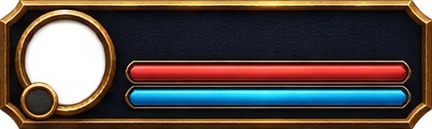
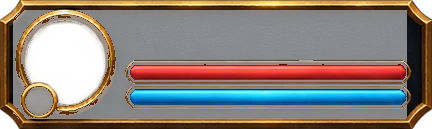
Cadres d unité : fond sombre semi-transparent (50 %), on voit le jeu à travers ; bordure, portraits, barres et textes opaques ; test

diff --git a/index.html b/index.html
@@ -94,11 +94,11 @@ body.mobile-mode .selectorTitle{font-size:9px;margin:5px 0 4px}
 @media(max-width:700px) and (orientation:portrait){body.mobile-mode #mobileOrientation{display:flex}body.mobile-mode #mobileControls{visibility:hidden}}
 @media(max-width:820px){.races{grid-template-columns:repeat(3,1fr)}.pickerLayout{grid-template-columns:1fr}.previewPane{position:relative;top:auto}.previewPane .pvArt{height:260px}#app{grid-template-rows:52px 1fr 110px}#bottom{grid-template-columns:1fr;grid-template-rows:auto auto;padding:6px}.sideBottom{display:none}#skills{gap:4px}.skill{width:64px;height:64px;font-size:7px}.skill .icon{width:34px;height:34px}.classes{grid-template-columns:1fr 1fr}#selfFrame,#targetFrame,#arenaFrames{width:180px;font-size:10px}#arenaFrames{top:105px}#help{display:none}}
 </style>
-<link rel="stylesheet" href="src/ui/theme.css?v=202611060320">
-<link rel="stylesheet" href="src/ui/lobby.css?v=202611060320">
-<link rel="stylesheet" href="src/ui/lobby_buttons.css?v=202611060320">
-<link rel="stylesheet" href="src/ui/hud.css?v=202611060320">
-<link rel="stylesheet" href="src/ui/results.css?v=202611060320">
+<link rel="stylesheet" href="src/ui/theme.css?v=202611060325">
+<link rel="stylesheet" href="src/ui/lobby.css?v=202611060325">
+<link rel="stylesheet" href="src/ui/lobby_buttons.css?v=202611060325">
+<link rel="stylesheet" href="src/ui/hud.css?v=202611060325">
+<link rel="stylesheet" href="src/ui/results.css?v=202611060325">
 </head>
 <body>
 <div id="app">
@@ -144,76 +144,76 @@ body.mobile-mode .selectorTitle{font-size:9px;margin:5px 0 4px}
 </main>
 <footer id="bottom"><div id="status" class="sideBottom"></div><div id="center"><div id="round">Round 1 / 3</div><div id="timer">02:30</div><div id="score">0 - 0</div></div><div id="skills"></div></footer>
 </div>
-<script src="game_logic.js?v=202611060320"></script>
-<script src="src/core/diag.js?v=202611060320"></script>
+<script src="game_logic.js?v=202611060325"></script>
+<script src="src/core/diag.js?v=202611060325"></script>
 <!-- High-fidelity character renderer. The game remains playable with the built-in fallback if these fail to load. -->
 <script src="https://cdn.jsdelivr.net/npm/three@0.128.0/build/three.min.js" crossorigin="anonymous"></script>
 <script src="https://cdn.jsdelivr.net/npm/three@0.128.0/examples/js/loaders/GLTFLoader.js" crossorigin="anonymous"></script>
 <!-- Personnages CC0 assemblés (assets emballés en .js dans assets/characters/ : fonctionne en double-clic). -->
-<script>window.ASSET_V="202611060320"</script>
-<script src="src/characters/kits.js?v=202611060320"></script>
-<script src="src/characters/rig.js?v=202611060320"></script>
-<script src="src/characters/glow.js?v=202611060320"></script>
-<script src="src/characters/weapons.js?v=202611060320"></script>
-<script src="src/characters/cloth.js?v=202611060320"></script>
-<script src="src/characters/armor.js?v=202611060320"></script>
-<script src="src/characters/shoulders.js?v=202611060320"></script>
-<script src="src/characters/head.js?v=202611060320"></script>
-<script src="src/characters/builder.js?v=202611060320"></script>
-<script src="src/render/env_post.js?v=202611060320"></script>
-<script src="src/render/environment.js?v=202611060320"></script>
-<script src="src/render/ground_paint.js?v=202611060320"></script>
-<script src="src/render/env_ambient.js?v=202611060320"></script>
-<script src="src/render/start_rooms.js?v=202611060320"></script>
-<script src="src/render/map_castle_horizon.js?v=202611060320"></script>
-<script src="src/render/map_castle.js?v=202611060320"></script>
-<script src="src/render/map_bridge.js?v=202611060320"></script>
-<script src="src/render/effects.js?v=202611060320"></script>
-<script src="src/render/shield_aura.js?v=202611060320"></script>
-<script src="assets/ui/map_thumbs.js?v=202611060320"></script>
-<script src="src/core/perf.js?v=202611060320"></script>
-<script src="src/core/setup.js?v=202611060320"></script>
-<script src="src/render/heroes3d.js?v=202611060320"></script>
-<script src="src/render/preview3d.js?v=202611060320"></script>
-<script src="src/render/hero_anim.js?v=202611060320"></script>
-<script src="src/render/hero_decor.js?v=202611060320"></script>
-<script src="src/render/beasts.js?v=202611060320"></script>
-<script src="src/render/portraits.js?v=202611060320"></script>
-<script src="src/data/classes.js?v=202611060320"></script>
-<script src="src/ui/icons.js?v=202611060320"></script>
-<script src="src/game/forms.js?v=202611060320"></script>
-<script src="src/core/webgl.js?v=202611060320"></script>
-<script src="src/data/maps.js?v=202611060320"></script>
-<script src="src/game/combat.js?v=202611060320"></script>
-<script src="src/game/spells.js?v=202611060320"></script>
-<script src="src/game/ai.js?v=202611060320"></script>
-<script src="src/game/player.js?v=202611060320"></script>
-<script src="src/game/rules.js?v=202611060320"></script>
-<script src="src/ui/skillbar.js?v=202611060320"></script>
-<script src="src/game/match.js?v=202611060320"></script>
-<script src="src/game/sim.js?v=202611060320"></script>
-<script src="src/render/world.js?v=202611060320"></script>
-<script src="src/render/units_fallback.js?v=202611060320"></script>
-<script src="src/render/cc_marks.js?v=202611060320"></script>
-<script src="src/render/arena_fallback.js?v=202611060320"></script>
-<script src="src/render/fx_webgl.js?v=202611060320"></script>
-<script src="src/render/overlay.js?v=202611060320"></script>
-<script src="src/ui/hud.js?v=202611060320"></script>
-<script src="src/ui/results.js?v=202611060320"></script>
-<script src="src/audio/music.js?v=202611060320"></script>
-<script src="src/audio/tracks.js?v=202611060320"></script>
-<script src="assets/audio/sfx_pack.js?v=202611060320"></script>
-<script src="src/audio/sfx.js?v=202611060320"></script>
-<script src="src/audio/spell_sounds.js?v=202611060320"></script>
-<script src="src/ui/frame_layout.js?v=202611060320"></script>
-<script src="src/ui/settings.js?v=202611060320"></script>
-<script src="src/ui/lobby.js?v=202611060320"></script>
-<script src="src/ui/mobile.js?v=202611060320"></script>
-<script src="src/input/controls.js?v=202611060320"></script>
-<script src="src/ui/cursor.js?v=202611060320"></script>
-<script src="src/net/online.js?v=202611060320"></script>
-<script src="src/ui/party.js?v=202611060320"></script>
-<script src="src/core/loading.js?v=202611060320"></script>
-<script src="src/core/main.js?v=202611060320"></script>
+<script>window.ASSET_V="202611060325"</script>
+<script src="src/characters/kits.js?v=202611060325"></script>
+<script src="src/characters/rig.js?v=202611060325"></script>
+<script src="src/characters/glow.js?v=202611060325"></script>
+<script src="src/characters/weapons.js?v=202611060325"></script>
+<script src="src/characters/cloth.js?v=202611060325"></script>
+<script src="src/characters/armor.js?v=202611060325"></script>
+<script src="src/characters/shoulders.js?v=202611060325"></script>
+<script src="src/characters/head.js?v=202611060325"></script>
+<script src="src/characters/builder.js?v=202611060325"></script>
+<script src="src/render/env_post.js?v=202611060325"></script>
+<script src="src/render/environment.js?v=202611060325"></script>
+<script src="src/render/ground_paint.js?v=202611060325"></script>
+<script src="src/render/env_ambient.js?v=202611060325"></script>
+<script src="src/render/start_rooms.js?v=202611060325"></script>
+<script src="src/render/map_castle_horizon.js?v=202611060325"></script>
+<script src="src/render/map_castle.js?v=202611060325"></script>
+<script src="src/render/map_bridge.js?v=202611060325"></script>
+<script src="src/render/effects.js?v=202611060325"></script>
+<script src="src/render/shield_aura.js?v=202611060325"></script>
+<script src="assets/ui/map_thumbs.js?v=202611060325"></script>
+<script src="src/core/perf.js?v=202611060325"></script>
+<script src="src/core/setup.js?v=202611060325"></script>
+<script src="src/render/heroes3d.js?v=202611060325"></script>
+<script src="src/render/preview3d.js?v=202611060325"></script>
+<script src="src/render/hero_anim.js?v=202611060325"></script>
+<script src="src/render/hero_decor.js?v=202611060325"></script>
+<script src="src/render/beasts.js?v=202611060325"></script>
+<script src="src/render/portraits.js?v=202611060325"></script>
+<script src="src/data/classes.js?v=202611060325"></script>
+<script src="src/ui/icons.js?v=202611060325"></script>
+<script src="src/game/forms.js?v=202611060325"></script>
+<script src="src/core/webgl.js?v=202611060325"></script>
+<script src="src/data/maps.js?v=202611060325"></script>
+<script src="src/game/combat.js?v=202611060325"></script>
+<script src="src/game/spells.js?v=202611060325"></script>
+<script src="src/game/ai.js?v=202611060325"></script>
+<script src="src/game/player.js?v=202611060325"></script>
+<script src="src/game/rules.js?v=202611060325"></script>
+<script src="src/ui/skillbar.js?v=202611060325"></script>
+<script src="src/game/match.js?v=202611060325"></script>
+<script src="src/game/sim.js?v=202611060325"></script>
+<script src="src/render/world.js?v=202611060325"></script>
+<script src="src/render/units_fallback.js?v=202611060325"></script>
+<script src="src/render/cc_marks.js?v=202611060325"></script>
+<script src="src/render/arena_fallback.js?v=202611060325"></script>
+<script src="src/render/fx_webgl.js?v=202611060325"></script>
+<script src="src/render/overlay.js?v=202611060325"></script>
+<script src="src/ui/hud.js?v=202611060325"></script>
+<script src="src/ui/results.js?v=202611060325"></script>
+<script src="src/audio/music.js?v=202611060325"></script>
+<script src="src/audio/tracks.js?v=202611060325"></script>
+<script src="assets/audio/sfx_pack.js?v=202611060325"></script>
+<script src="src/audio/sfx.js?v=202611060325"></script>
+<script src="src/audio/spell_sounds.js?v=202611060325"></script>
+<script src="src/ui/frame_layout.js?v=202611060325"></script>
+<script src="src/ui/settings.js?v=202611060325"></script>
+<script src="src/ui/lobby.js?v=202611060325"></script>
+<script src="src/ui/mobile.js?v=202611060325"></script>
+<script src="src/input/controls.js?v=202611060325"></script>
+<script src="src/ui/cursor.js?v=202611060325"></script>
+<script src="src/net/online.js?v=202611060325"></script>
+<script src="src/ui/party.js?v=202611060325"></script>
+<script src="src/core/loading.js?v=202611060325"></script>
+<script src="src/core/main.js?v=202611060325"></script>
 </body>
 </html>

diff --git a/tools/build_hud_assets.js b/tools/build_hud_assets.js
@@ -52,6 +52,23 @@ async function hollow(img, name) {
   await save(fromRaw(r), name);
 }
 
+// Cadre d'unité : le fond de cuir sombre à l'intérieur devient semi-transparent (on voit le jeu à travers ; demande du
+// 06/11/2026 « le rectangle opaque cache trop le jeu »). box = [x0, y0, x1, y1] en fractions de l'image : seuls les
+// pixels sombres et non dorés de cette zone (le fond) ; bordure dorée, barres peintes et contours restent opaques.
+const FRAME_FILL_ALPHA = 0.5;
+async function seeThrough(img, name, [x0, y0, x1, y1]) {
+  const r = await rawOf(img),
+    { data, w, h } = r;
+  for (let y = Math.round(y0 * h); y < y1 * h; y++)
+    for (let x = Math.round(x0 * w); x < x1 * w; x++) {
+      const i = (y * w + x) * 4,
+        [R, G, B] = [data[i], data[i + 1], data[i + 2]],
+        gold = R > 110 && R - B > 45;
+      if (!gold && Math.max(R, G, B) < 80) data[i + 3] = Math.round(data[i + 3] * FRAME_FILL_ALPHA);
+    }
+  await save(fromRaw(r), name);
+}
+
 (async () => {
   // barres du haut et du bas
   await joinEnds(1, 46, 95, [14, 416], [1020, 414], 'top_bar');
@@ -60,10 +77,10 @@ async function hollow(img, name) {
   await save(crop(1, 487, 238, 473, 155), 'plaque');
   await save(crop(1, 618, 447, 707, 245), 'panel');
   // cadres d'unité (cercle du portrait transparent, barres peintes recouvertes par les vraies valeurs)
-  await save(crop(2, 46, 20, 643, 243), 'frame_self');
-  await save(crop(2, 760, 20, 642, 243), 'frame_target');
-  await save(crop(2, 36, 299, 433, 129), 'frame_party');
-  await save(crop(2, 981, 299, 432, 129), 'frame_enemy');
+  await seeThrough(crop(2, 46, 20, 643, 243), 'frame_self', [0.06, 0.08, 0.97, 0.92]);
+  await seeThrough(crop(2, 760, 20, 642, 243), 'frame_target', [0.03, 0.08, 0.94, 0.92]);
+  await seeThrough(crop(2, 36, 299, 433, 129), 'frame_party', [0.06, 0.08, 0.97, 0.92]);
+  await seeThrough(crop(2, 981, 299, 432, 129), 'frame_enemy', [0.03, 0.08, 0.94, 0.92]);
   // case de sort, bouton, pastille
   await hollow(crop(3, 45, 85, 228, 220), 'slot');
   await save(crop(4, 31, 72, 296, 100), 'button');

diff --git a/tests/spec.test.js b/tests/spec.test.js
@@ -956,3 +956,18 @@ assert.ok(
   }
   assert.ok(!read('src/characters/builder.js').includes('#include <output_fragment>'), 'pas d’ancrage absent de r128');
 }
+// Cadres d'unité semi-transparents (06/11/2026, « le rectangle opaque cache trop le jeu ») : le fond sombre des
+// cadres laisse voir le jeu à 50 %, la bordure dorée reste opaque (tools/build_hud_assets.js seeThrough)
+require('sharp')('assets/ui/hud/frame_party.webp')
+  .ensureAlpha()
+  .raw()
+  .toBuffer({ resolveWithObject: true })
+  .then(({ data, info }) => {
+    const a = (fx, fy) => data[(Math.round(fy * info.height) * info.width + Math.round(fx * info.width)) * 4 + 3];
+    assert.ok(Math.abs(a(0.6, 0.15) - 128) < 30, `fond du cadre à moitié transparent (alpha ${a(0.6, 0.15)})`);
+    assert.ok(a(0.6, 0.02) > 240, 'bordure dorée opaque');
+  })
+  .catch(e => {
+    console.error(e.message);
+    process.exitCode = 1;
+  });

diff --git a/docs/SPEC.md b/docs/SPEC.md
@@ -115,6 +115,7 @@ Ajouter une ligne ici (et un test si c'est vérifiable à bas coût) à chaque n
 - **Personnages en figurine peinte** (06/11/2026) : dégradé de lumière du haut du corps (plus clair, chaud) vers les pieds (ombre bleutée), en arène comme dans l'aperçu du lobby ; en arène, **liseré discret aux couleurs de l'équipe** sur la silhouette (alliés et soi-même bleutés, ennemis rougeâtres ; aucun au lobby). Proportions et armes inchangées (armes des elfes à 60 % gardées). Ombres douces sur les volumes (pas d'aplats sombres) ; le contour d'encre borde la silhouette sans ressortir dans les creux du visage (06/11/2026 : « les femmes ont une moustache », « trop d'ombre marquée »). 🧪
 - **Sol peint** (06/11/2026, graphismes « arène peinte à la main ») : sur les deux cartes, lumière et ombre peintes dans le sol : ombre de contact douce au pied des remparts, piliers, rochers et poteaux (plus légère pour les poteaux minces), grandes taches chaudes / froides, centre de l'arène plus clair que les bords, halo chaud au sol autour de chaque brasero, lueur bleutée du cercle runique (château), ombre douce sous le pont (The Bridge), taches de mousse / terre / sable et fissures sur les dalles (château, hors herbe et cercle runique) ; sol un peu désaturé pour que les personnages ressortent ; ombre au pied des murs des salles de départ. Calcul au chargement de la carte (~0,1 s). The Bridge : même sable dans l'arène et les salles de départ (06/11/2026 : celui des salles était étiré, « trop fake »), sans coupure entre deux tuiles ni bandes répétées (rides dont l'orientation varie par zones). 🧪
 - **Bulle de bouclier** (05/11/2026) : tant qu'une unité a un bouclier (Power Shield, Arcane Barrier, Shield Wall, trinket), une bulle magique l'entoure jusqu'à ce que le bouclier disparaisse : bord lumineux et intérieur transparent, aspect propre au sort (Power Shield doré avec anneau de runes, Arcane Barrier violet avec runes, Shield Wall en plaques d'acier bleuté en nid d'abeille, trinket doré) ; elle apparaît d'un coup, s'éclaire à chaque coup absorbé, pâlit quand le bouclier s'use et éclate quand il casse ; plus de bulle éphémère au lancement des sorts (jugée moche, 05/11/2026 : seuls les éclats de lumière restent) ; invisible sur un ennemi camouflé, à demi visible sur un allié camouflé. Jamais de bulle sans personnage : celles des unités d'une manche précédente sont retirées, et la bulle est une lueur transparente (jamais un disque noir), 06/11/2026. 🧪
+- **Cadres d'unité semi-transparents** (PC, 06/11/2026, « le rectangle opaque cache trop le jeu ») : le fond sombre des cadres (soi, cible, groupe, ennemis) laisse voir le jeu à 50 % ; bordure dorée, portraits, barres et textes restent opaques (`seeThrough` de `tools/build_hud_assets.js`). 🧪
 - **Bouclier d'absorption sur les barres de vie** (04/11/2026) : barre flottante, cadres de groupe / d'adversaires, cadre du joueur et de la cible ; portion hachurée bleu-glace au liseré doré qui prolonge la vie, et si le bouclier dépasse la vie manquante, le surplus recouvre la fin de la barre de vie, qui s'illumine au bout (`shieldSpan`, `ui/hud.js`). Aussi en mobile. 🧪
 - Interface en jeu (PC) : design de l'utilisateur (maquette `assets_src/ui/interface_in_game.png`, panoplie `hud_kit_1..6.png` → `node tools/build_hud_assets.js` → `assets/ui/hud/`, styles `src/ui/hud.css`) : barres de bois cerclées d'or, blason suspendu, boutons sertis avec icônes, plaque du chrono, cases de sorts dorées, panneau des contrôles, pastilles. Cadres d'unité de la panoplie : portrait dans le cercle, emblème de classe dans le médaillon, barres peintes (la partie vide est recouverte). Incantation d'un adversaire à la place de son nom ; celle de la cible à gauche de son cadre. Le mobile et le lobby gardent leur interface. 🧪
 - Barre de sorts : un clic souris lance le sort ; au survol, l'icône ne bouge pas. Les boutons sont construits une fois par barre, seuls recharges et états changent ensuite (`renderSkillBar`) ; un bouton cliqué ne prend pas le focus (Espace = saut). Icônes centrées verticalement dans la barre du bas. 🧪
